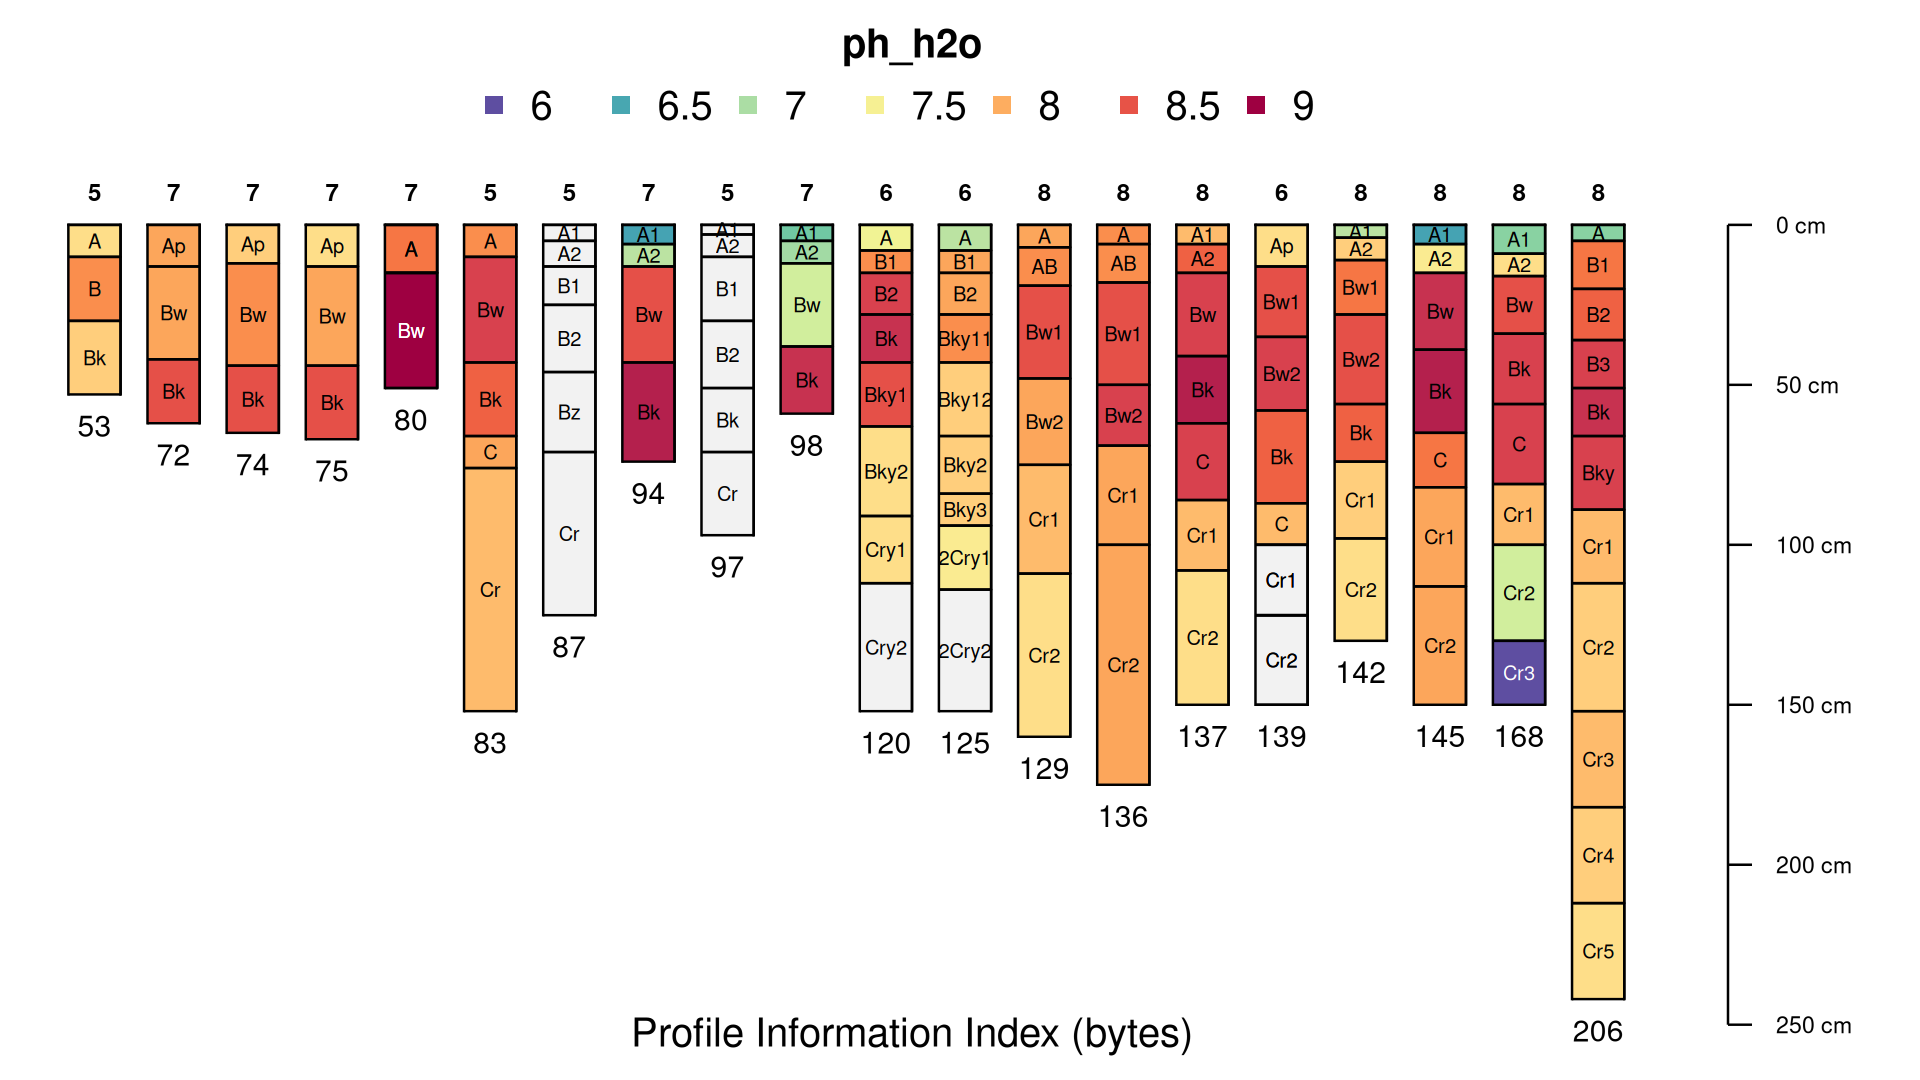
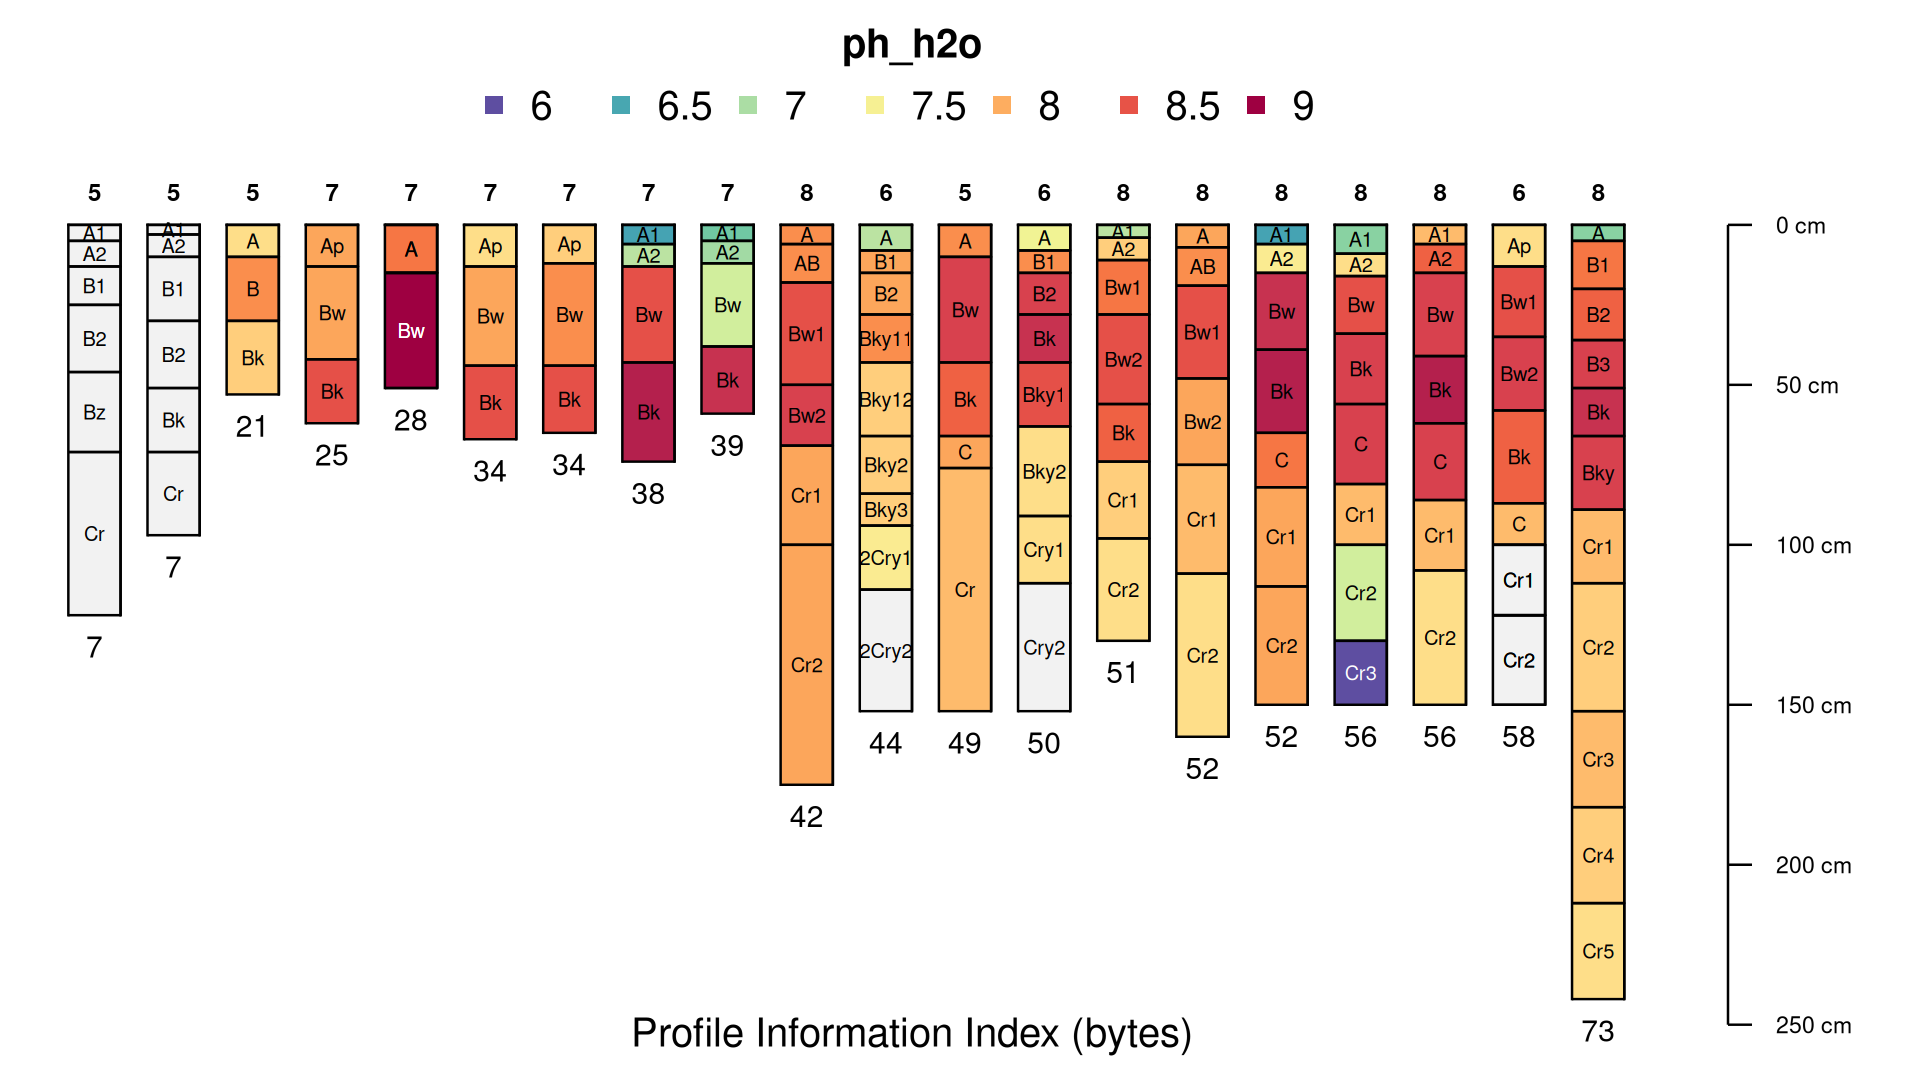
Deploying to gh-pages from @ ncss-tech/aqp@f5027aa9d19639fb142bf7d6170d47ee06193941 🚀

diff --git a/articles/missing-data.html b/articles/missing-data.html
@@ -215,7 +215,8 @@
 <code class="sourceCode R"><span><span class="fu"><a href="../reference/SoilProfileCollection-plotting-methods.html">plotSPC</a></span><span class="op">(</span><span class="va">x</span>, color <span class="op">=</span> <span class="st">'db_13b'</span>, width <span class="op">=</span> <span class="fl">0.3</span>, name.style <span class="op">=</span> <span class="st">'center-center'</span>, label <span class="op">=</span> <span class="st">'pedon_completeness_index'</span><span class="op">)</span></span></code></pre></div>
 <p><img src="missing-data_files/figure-html/unnamed-chunk-4-5.png" width="960" style="display: block; margin: auto;"></p>
 <div class="sourceCode" id="cb13"><pre class="downlit sourceCode r">
-<code class="sourceCode R"><span><span class="va">v</span> <span class="op">&lt;-</span> <span class="fu"><a href="../reference/combine-SoilProfileCollection-method.html">c</a></span><span class="op">(</span><span class="st">'clay'</span>, <span class="st">'db_13b'</span>, <span class="st">'cec7'</span>, <span class="st">'ph_h2o'</span><span class="op">)</span></span>
+<code class="sourceCode R"><span><span class="co"># use a single variable</span></span>
+<span><span class="va">v</span> <span class="op">&lt;-</span> <span class="fu"><a href="../reference/combine-SoilProfileCollection-method.html">c</a></span><span class="op">(</span><span class="st">'ph_h2o'</span><span class="op">)</span></span>
 <span></span>
 <span><span class="fu"><a href="https://rdrr.io/r/graphics/par.html" class="external-link">par</a></span><span class="op">(</span>mar <span class="op">=</span> <span class="fu"><a href="../reference/combine-SoilProfileCollection-method.html">c</a></span><span class="op">(</span><span class="fl">1</span>, <span class="fl">0</span>, <span class="fl">3</span>, <span class="fl">2</span><span class="op">)</span>, xpd <span class="op">=</span> <span class="cn">NA</span><span class="op">)</span></span>
 <span></span>
